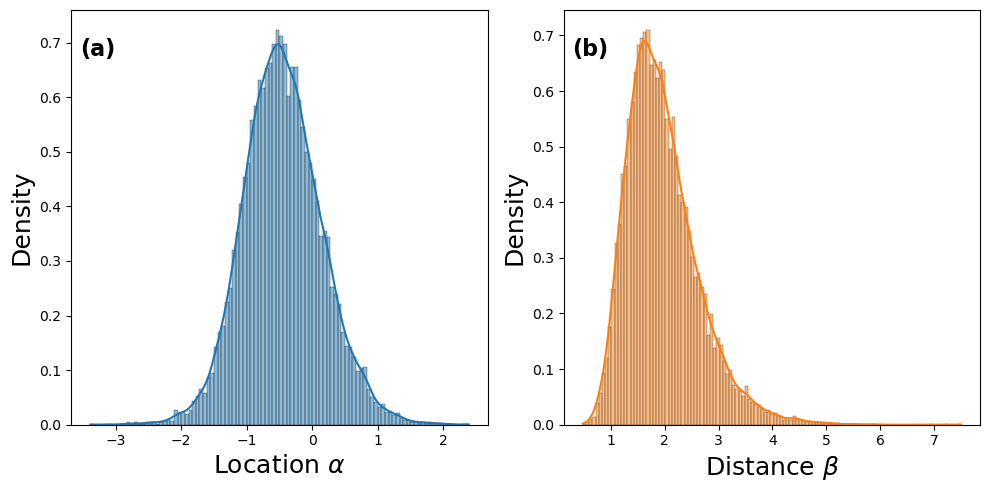
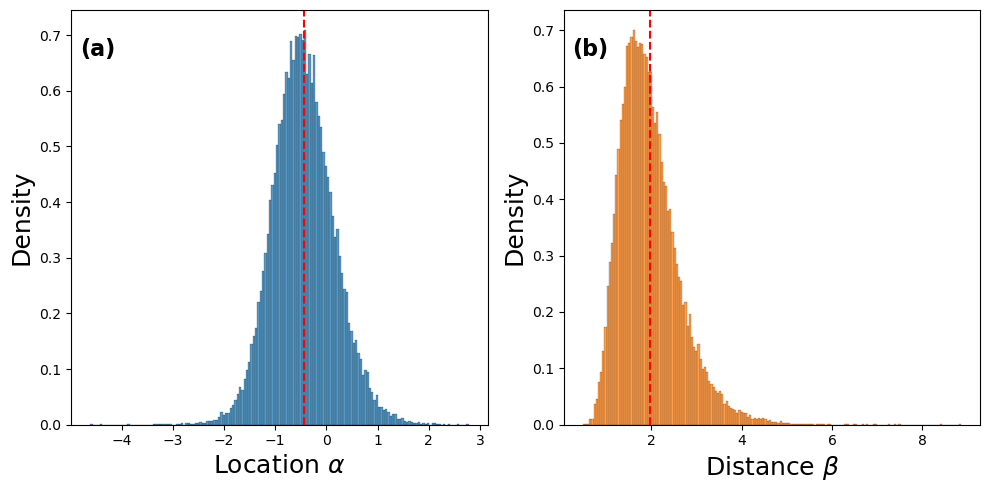
Minor changes

diff --git a/src/visualisations.py b/src/visualisations.py
@@ -31,24 +31,27 @@ def plot_marginals(alpha, beta, I_0=None):
     fig, ax = plt.subplots(1, n_parameters, figsize=(5*n_parameters, 5))
 
     # Marginal distribution of alpha
-    sns.histplot(alpha, stat='density', ax=ax[0], kde=True)
+    sns.histplot(alpha, stat='density', ax=ax[0], kde=False)
     ax[0].set_xlabel(r'Location $\alpha$', fontsize=18)
     ax[0].set_ylabel('Density', fontsize=18)
     ax[0].text(0.02, 0.89, "(a)", fontsize=16, transform=ax[0].transAxes, fontweight="bold")
+    ax[0].axvline(alpha.mean(), color='red', linestyle='--', label='Mean') # vertical line at the mean
 
     # Marginal distribution of beta
-    sns.histplot(beta, stat='density', ax=ax[1], kde=True, color='#ff7f0e')
+    sns.histplot(beta, stat='density', ax=ax[1], kde=False, color='#ff7f0e')
     ax[1].set_xlabel(r'Distance $\beta$', fontsize=18)
     ax[1].set_ylabel('Density', fontsize=18)
     ax[1].text(0.02, 0.89, "(b)", fontsize=16, transform=ax[1].transAxes, fontweight="bold")
+    ax[1].axvline(beta.mean(), color='red', linestyle='--', label='Mean') # vertical line at the mean
 
     # Marginal distribution of I_0
     if I_0 is not None:
         I_0 = I_0.flatten()
-        sns.histplot(I_0, stat='density', ax=ax[2], kde=True, color='#2ca02c')
+        sns.histplot(I_0, stat='density', ax=ax[2], kde=False, color='#2ca02c')
         ax[2].set_xlabel(r'Source Intensity $I_0$', fontsize=18)
         ax[2].set_ylabel('Density', fontsize=18)
         ax[2].text(0.02, 0.89, "(c)", fontsize=16, transform=ax[2].transAxes, fontweight="bold")
+        ax[2].axvline(I_0.mean(), color='red', linestyle='--', label='Mean') # vertical line at the mean
 
     plt.tight_layout()
 
@@ -68,7 +71,7 @@ def plot_joint(alpha, beta):
     ax.scatter(x=alpha, y=beta, color='black', alpha=1, s=2) # scatter plot
 
     # 2D histogram
-    sns.histplot(x=alpha, y=beta, bins=40, stat='density', cbar=True, thresh=0.01, cmap='viridis', ax=ax, 
+    sns.histplot(x=alpha, y=beta, bins=40, stat='density', cbar=True, thresh=0.002, cmap='viridis', ax=ax, 
                 cbar_kws={'label': 'Probability Density'},
                 )
     ax.set_xlabel(r'Location $\alpha$', fontsize=18)
@@ -97,7 +100,7 @@ def plot_joint_corner(alpha, beta, I_0):
 
     # Beta vs Alpha
     axs[0,0].scatter(x=alpha, y=beta, color='black', alpha=1, s=2)
-    sns.histplot(x=alpha, y=beta, bins=40, stat='density', cbar=True, thresh=0.02, cmap='viridis', ax=axs[0,0], 
+    sns.histplot(x=alpha, y=beta, bins=40, stat='density', cbar=True, thresh=0.008, cmap='viridis', ax=axs[0,0], 
                  cbar_kws={'label': 'Probability Density'})
     axs[0,0].set_xlabel('')
     axs[0,0].set_xticklabels('')
@@ -107,7 +110,7 @@ def plot_joint_corner(alpha, beta, I_0):
 
     # I_0 vs Alpha
     axs[1, 0].scatter(x=alpha, y=I_0, color='black', alpha=1, s=2)
-    sns.histplot(x=alpha, y=I_0, bins=40, stat='density', cbar=True, thresh=0.005, cmap='viridis', ax=axs[1, 0])
+    sns.histplot(x=alpha, y=I_0, bins=40, stat='density', cbar=True, thresh=0.002, cmap='viridis', ax=axs[1, 0])
     axs[1, 0].set_xlabel(r'Location $\alpha$', fontsize=18)
     axs[1, 0].set_ylabel(r'Source Intensity $I_0$', fontsize=18)
     axs[1, 0].figure.axes[-1].yaxis.label.set_size(16)
@@ -115,7 +118,7 @@ def plot_joint_corner(alpha, beta, I_0):
 
     # I_0 vs Beta
     axs[1, 1].scatter(x=beta, y=I_0, color='black', alpha=1, s=2)
-    sns.histplot(x=beta, y=I_0, bins=40, stat='density', cbar=True, thresh=0.005, cmap='viridis', ax=axs[1, 1], 
+    sns.histplot(x=beta, y=I_0, bins=40, stat='density', cbar=True, thresh=0.002, cmap='viridis', ax=axs[1, 1], 
                  cbar_kws={'label': 'Probability Density'})
     axs[1, 1].set_xlabel(r'Distance $\beta$', fontsize=18)
     axs[1, 1].set_ylabel('')

diff --git a/main.py b/main.py
@@ -99,10 +99,6 @@ print("Parameter Quotes (Part V):")
 print(f"alpha = {alpha_mean:.5f} ± {alpha_std:.5f} (mean ± std), with standard error on the mean of {alpha_mcse:.5f}")
 print(f"beta = {beta_mean:.5f} ± {beta_std:.5f} (mean ± std), with standard error on the mean of {beta_mcse:.5f}\n")
 
-# calculate correlation between alpha and beta
-correlation = np.corrcoef(alpha.flatten(), beta.flatten())[0, 1]
-print(f"Correlation between alpha and beta: {correlation:.5f}\n")
-
 # plot traces for the first 500 samples of the first chain
 fig = plot_traces(
     alpha=alpha[0][:500],
@@ -160,15 +156,6 @@ print("Parameter Quotes (Part VII):")
 print(f"alpha = {alpha_mean:.5f} ± {alpha_std:.5f} (mean ± std), with standard error on the mean of {alpha_mcse:.5f}")
 print(f"beta = {beta_mean:.5f} ± {beta_std:.5f} (mean ± std), with standard error on the mean of {beta_mcse:.5f}")
 print(f"I_0 = {I_0_mean:.5f} ± {I_0_std:.5f} (mean ± std), with standard error on the mean of {I_0_mcse:.5f}\n")
-
-# calculate correlation between alpha, beta and I_0
-correlation_alpha_beta = np.corrcoef(alpha.flatten(), beta.flatten())[0, 1]
-correlation_alpha_I_0 = np.corrcoef(alpha.flatten(), I_0.flatten())[0, 1]
-correlation_beta_I_0 = np.corrcoef(beta.flatten(), I_0.flatten())[0, 1]
-
-print(f"Correlation between alpha and beta: {correlation_alpha_beta:.5f}")
-print(f"Correlation between alpha and I_0: {correlation_alpha_I_0:.5f}")
-print(f"Correlation between beta and I_0: {correlation_beta_I_0:.5f}\n")
 
 # plot traces for the first 500 samples of the first chain
 fig = plot_traces(
